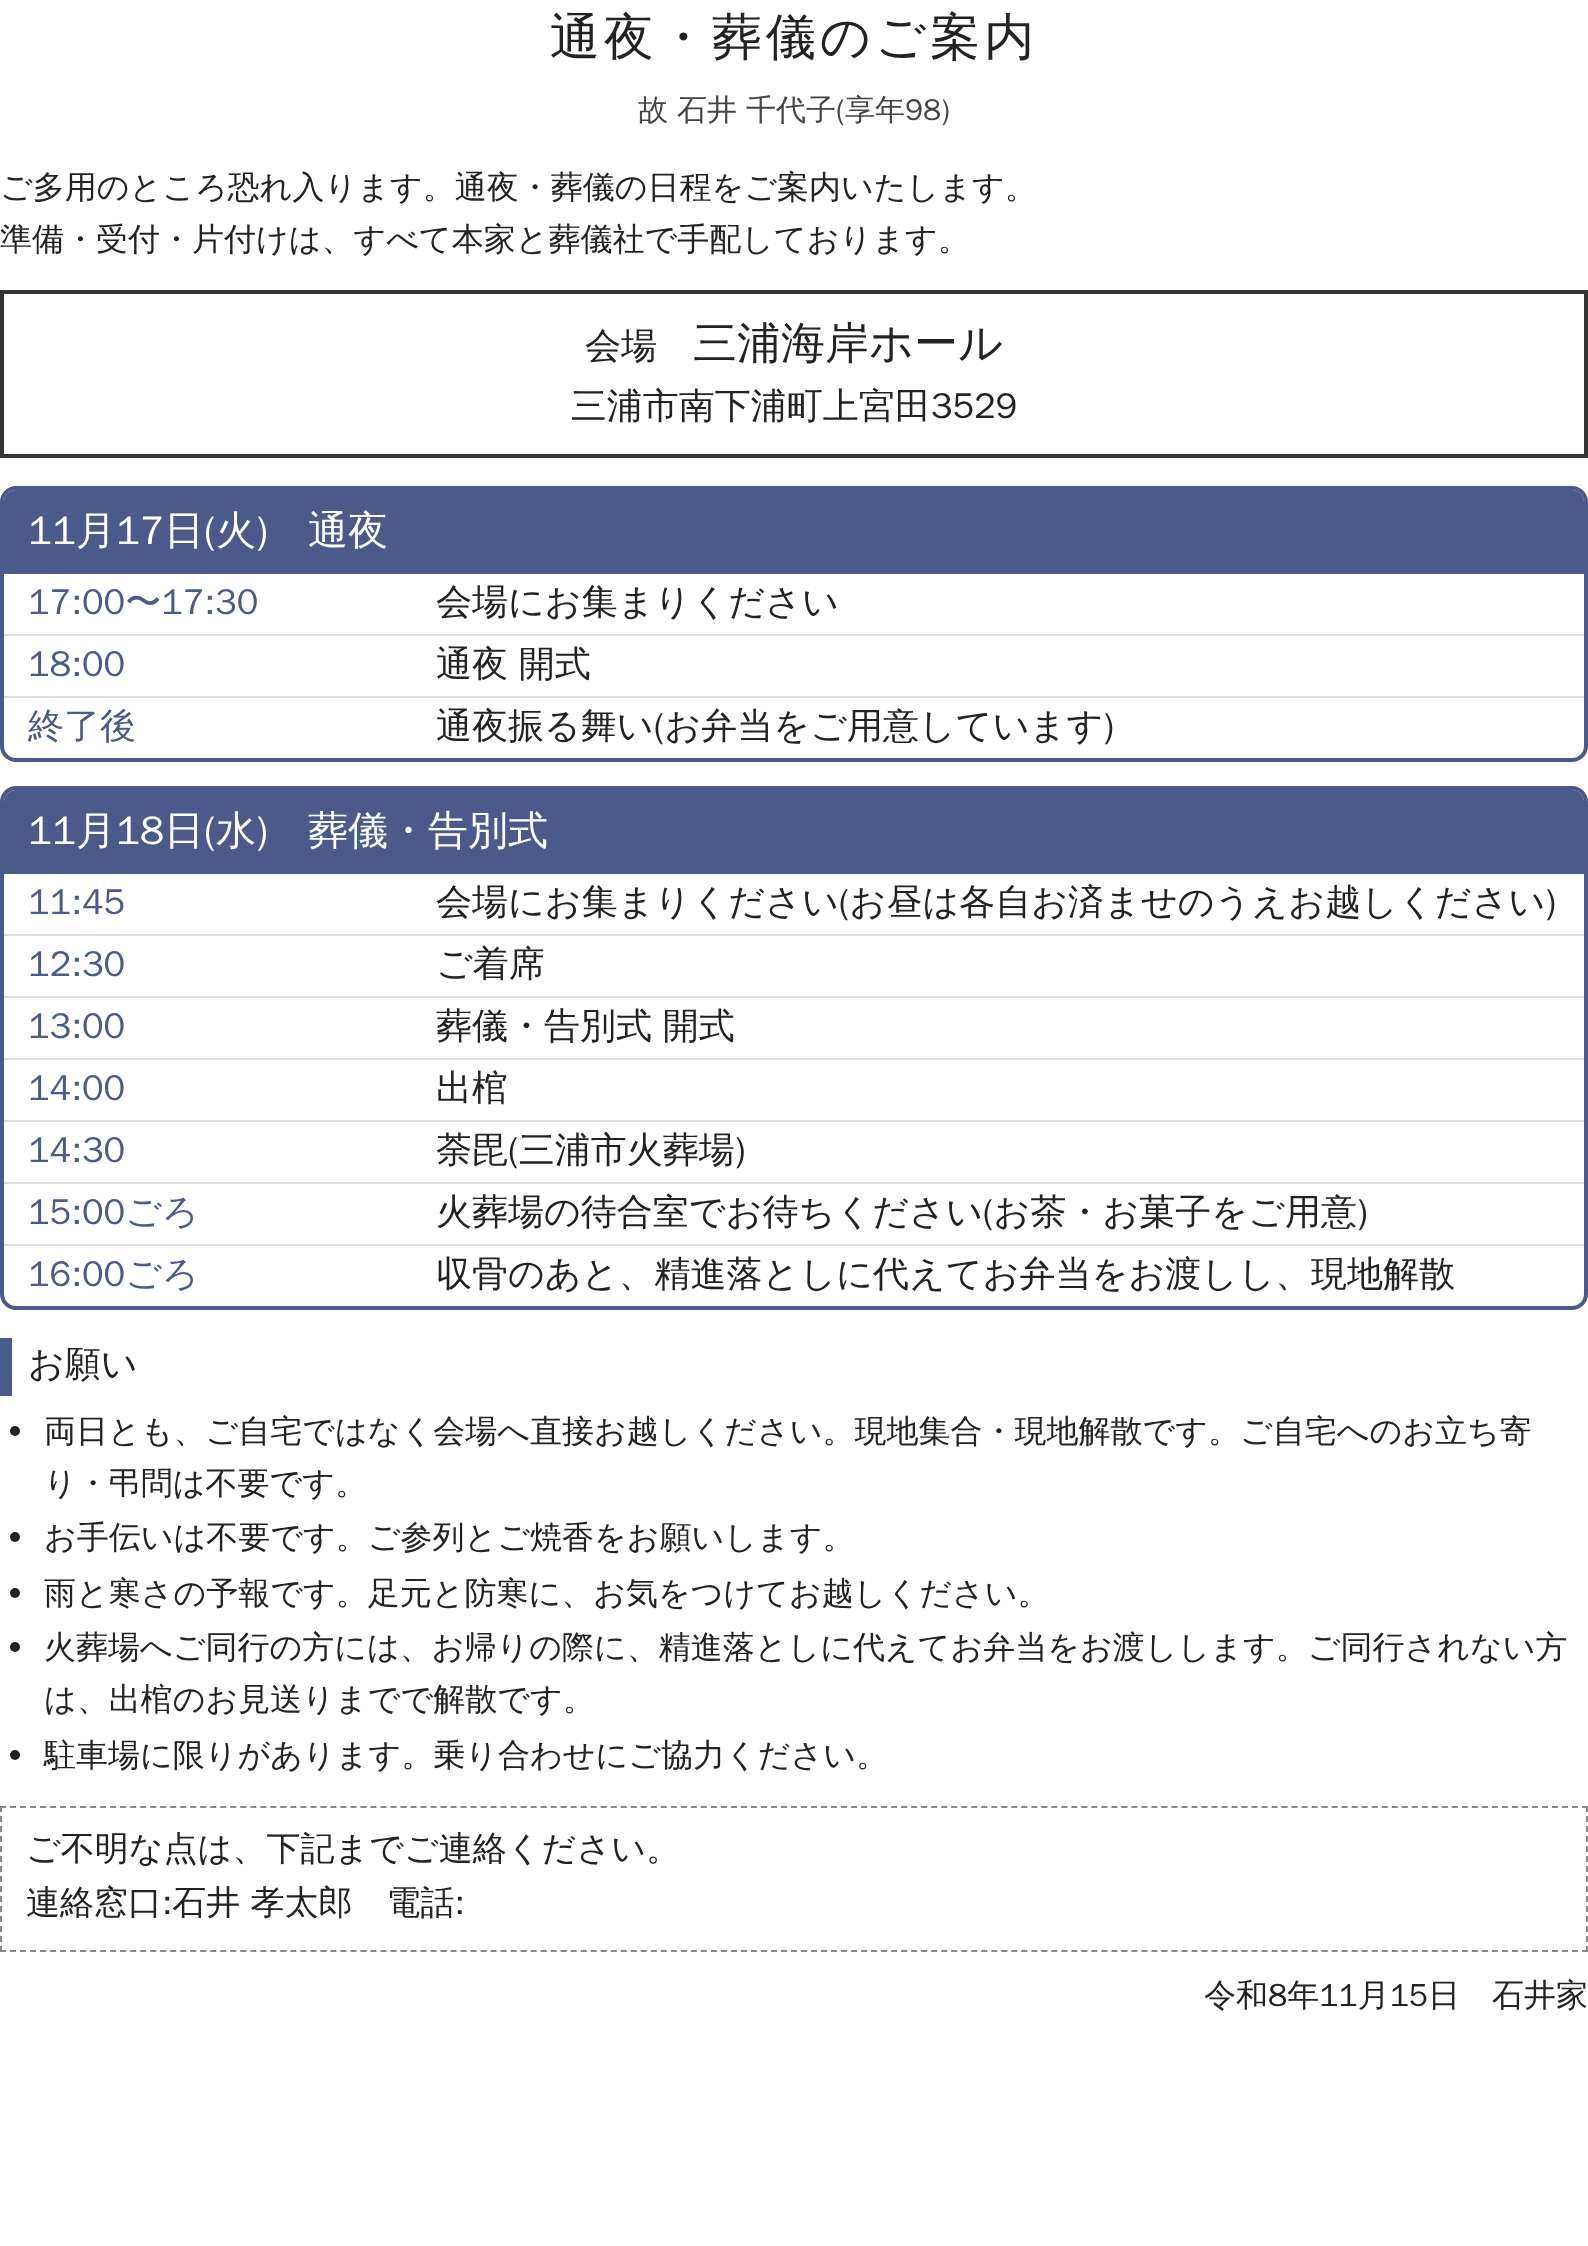
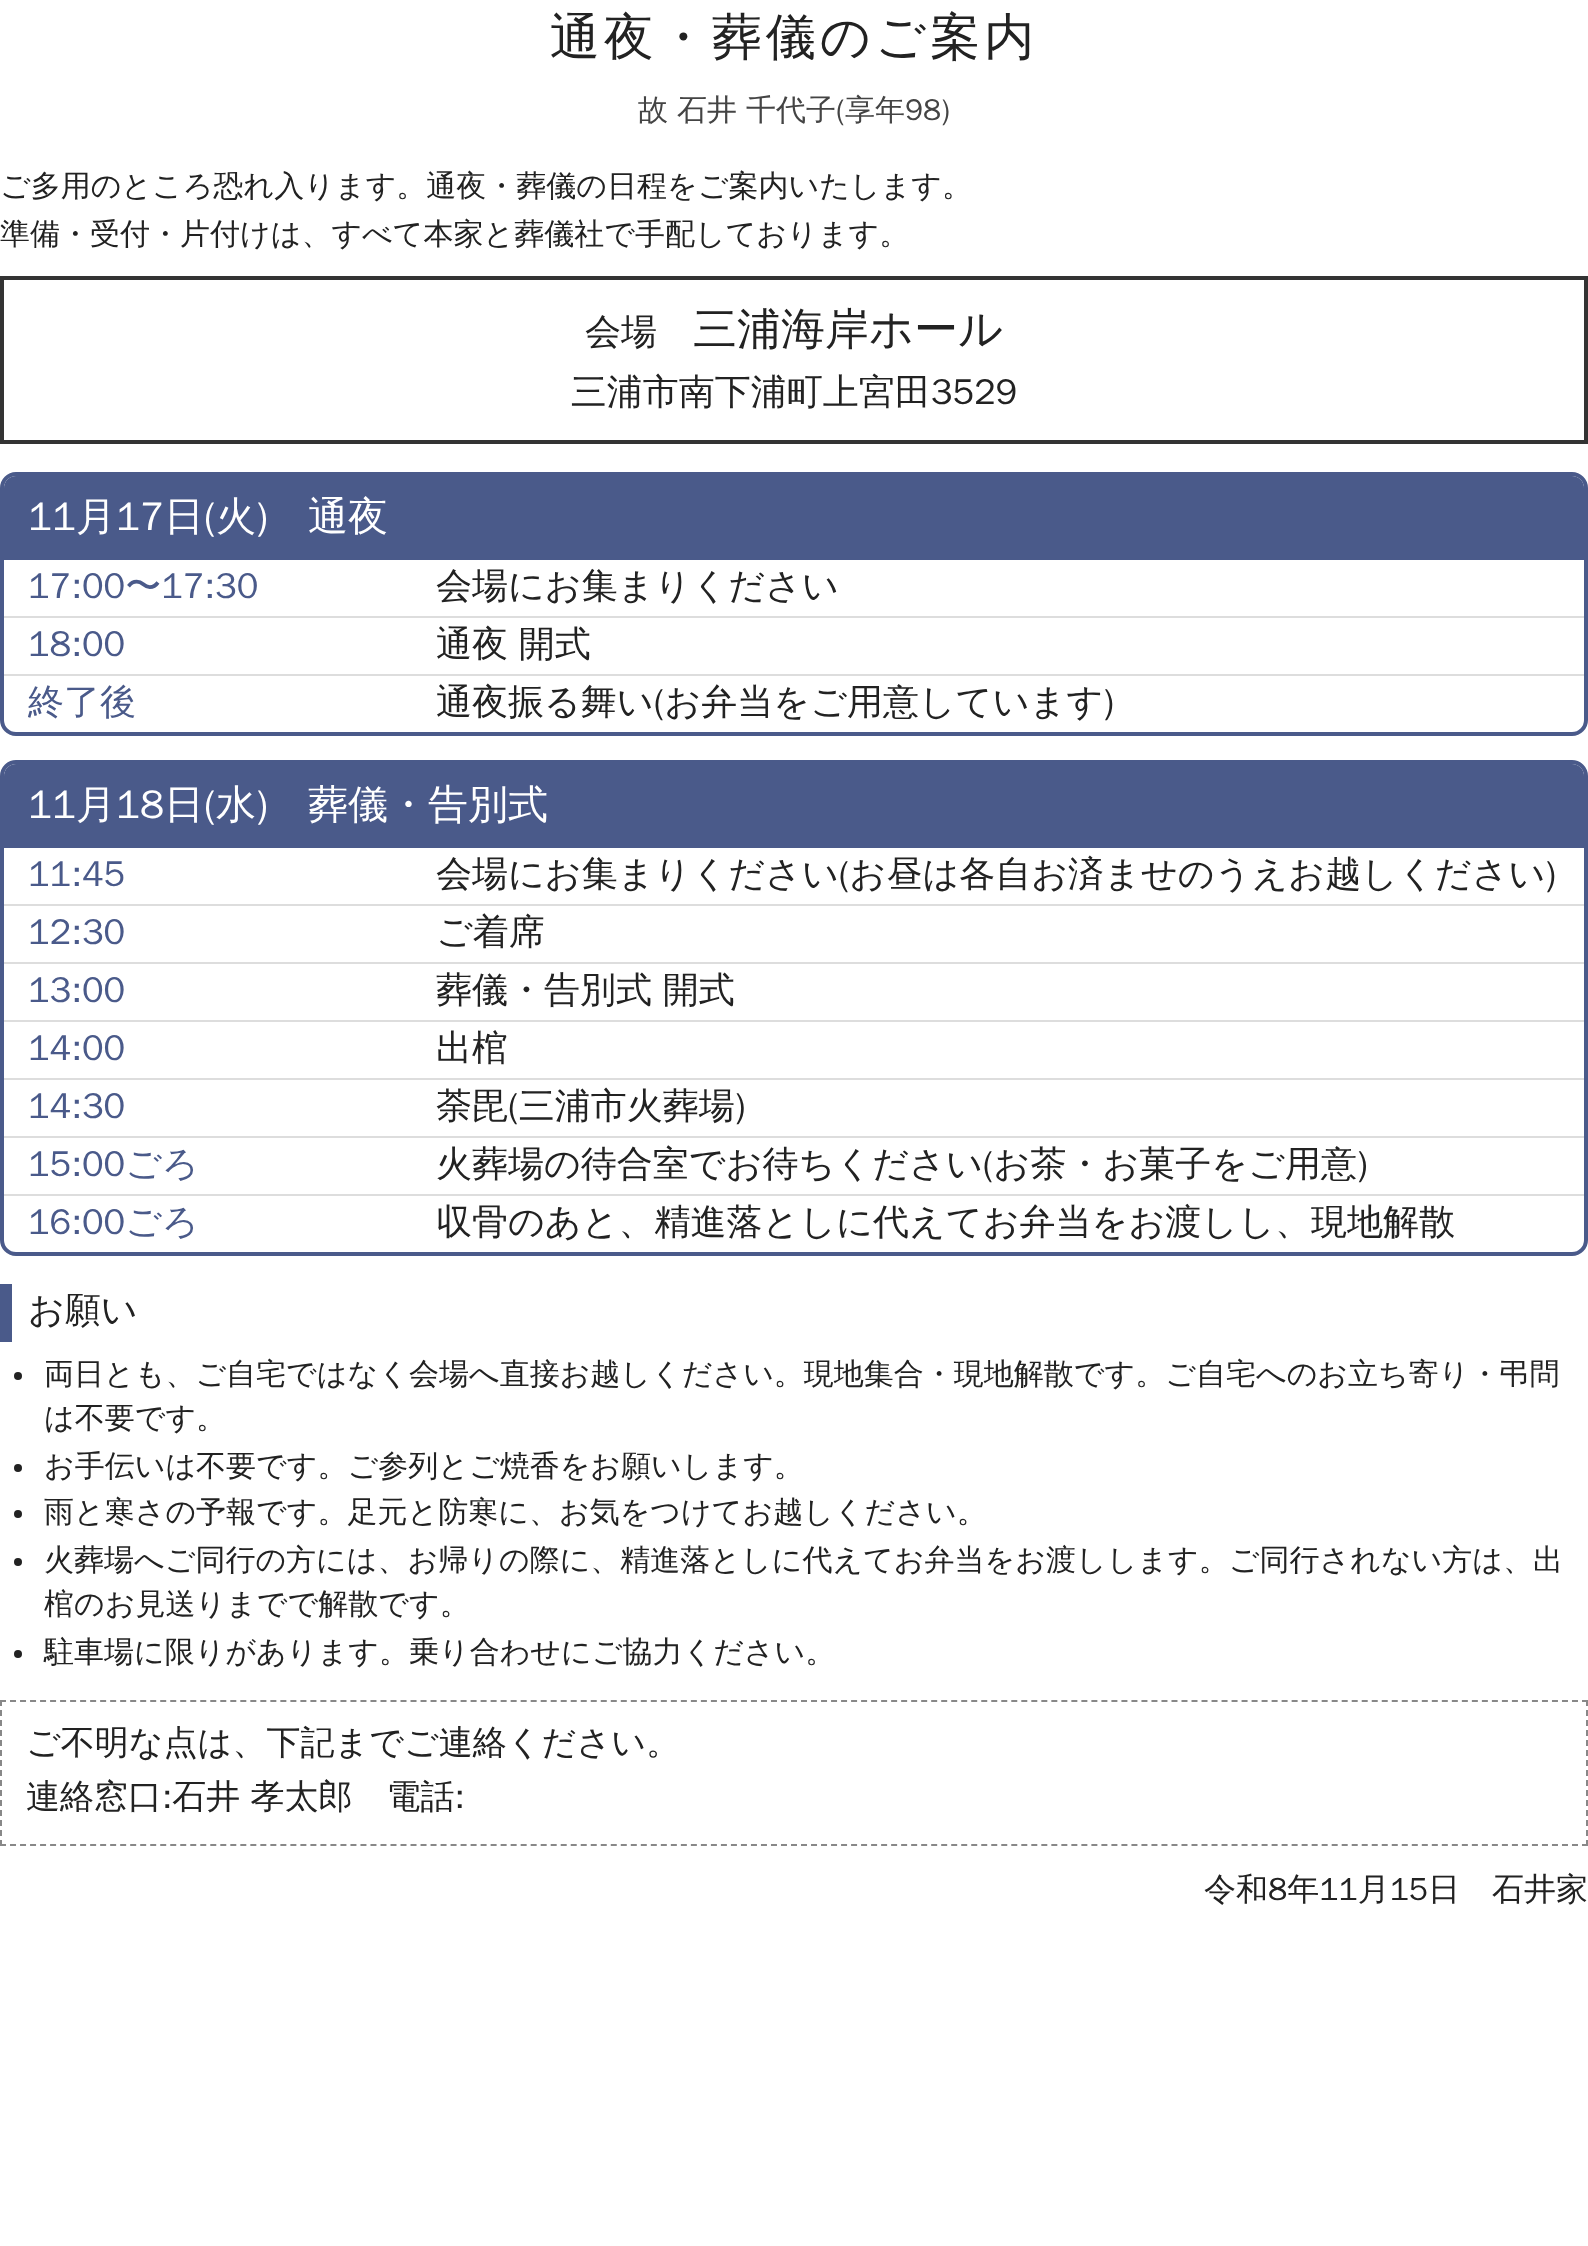
親族向け案内文を1ページに収め直し
Claude-Session: https://claude.ai/code/session_017EN71ntz6Y61c3RwKNapL6

diff --git a/葬儀資料/親族向け案内文.html b/葬儀資料/親族向け案内文.html
@@ -1,18 +1,18 @@
 <html><head><meta charset="utf-8"><style>
-@page{size:A4 portrait;margin:11mm}
+@page{size:A4 portrait;margin:9mm}
 body{font-family:"WenQuanYi Zen Hei",sans-serif;color:#222;margin:0;line-height:1.6}
 h1{font-size:25px;text-align:center;margin:0 0 4px;letter-spacing:2px}
 .sub{text-align:center;font-size:15px;color:#444;margin-bottom:14px}
-.lead{font-size:16px;margin-bottom:12px}
+.lead{font-size:15px;margin-bottom:8px}
 .place{border:2px solid #333;padding:8px 12px;font-size:18px;text-align:center;margin-bottom:14px}
 .place b{font-size:22px}
 .day{border:2px solid #4a5a8a;border-radius:8px;margin-bottom:12px;overflow:hidden}
 .day .h{background:#4a5a8a;color:#fff;font-size:20px;padding:5px 12px;font-weight:bold}
 table{width:100%;border-collapse:collapse;font-size:18px}
-td{padding:3px 12px;border-bottom:1px solid #ddd}tr:last-child td{border-bottom:none}
+td{padding:2px 12px;border-bottom:1px solid #ddd}tr:last-child td{border-bottom:none}
 td.t{width:180px;font-weight:bold;color:#4a5a8a;white-space:nowrap}
 h2{font-size:18px;border-left:6px solid #4a5a8a;padding-left:8px;margin:14px 0 6px}
-ul{margin:0;padding-left:22px;font-size:16px}li{margin-bottom:2px}
+ul{margin:0;padding-left:22px;font-size:15px;line-height:1.5}li{margin-bottom:1px}
 .c{border:1px dashed #888;padding:8px 12px;font-size:17px;margin-top:12px}
 .r{text-align:right;font-size:16px;margin-top:10px}
 </style></head><body>
